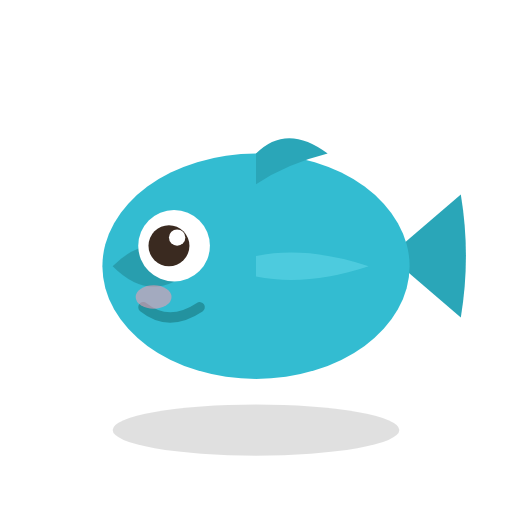
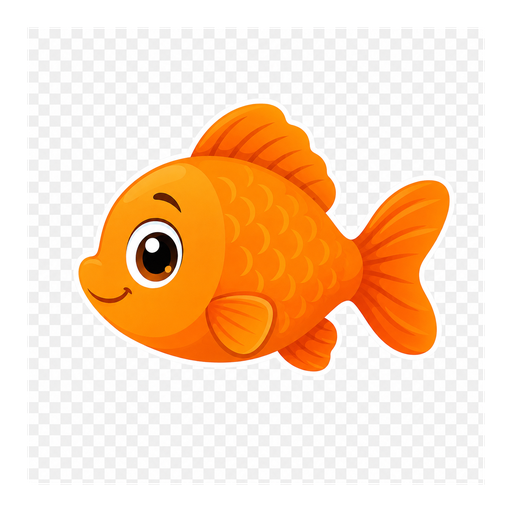
GPT 美術續增：dog/fox 動物 + fish/flower 共用 (m-/a-/f-)
- m-dog/a-dog, m-fox/a-fox, m-fish, f-cat(=魚), f-bee(=花)
- 觸及 ChatGPT Pro 圖片用量上限，餘待 4:14 重設後續生

Changed region(s): [[0.1562, 0.1875, 0.9375, 0.75], [0.2188, 0.7812, 0.7812, 0.9062]]

diff --git a/docs/更新紀錄.md b/docs/更新紀錄.md
@@ -17,6 +17,8 @@
 - 替換 `assets/img/*.png`（18 張）、`sw.js`（快取 `v8`→`v9`，讓使用者立即取得新圖）
 - 規模：大型（替換大量共用素材；舊版 SVG 圖已保存在 git 歷史 `ad032da` 可還原）
 - 後續批次：記憶配對、關係配對動物＋食物（進行中）
+  - 已續增動物（共用 m-/a-）：`dog`、`fox`、`cat`、`duck`；`fish`→`m-fish`/`f-cat`、`flower`→`f-bee`
+  - ⏸ 2026-06-07 約 02:45 觸及 ChatGPT 圖片生成 Pro 用量上限（凌晨 4:14 重設），其餘動物／食物待額度恢復後續生
 
 ## [1.1.0] － 2026-06-07｜自製 74 張遊戲插畫上線 🎨
 ### 新增
